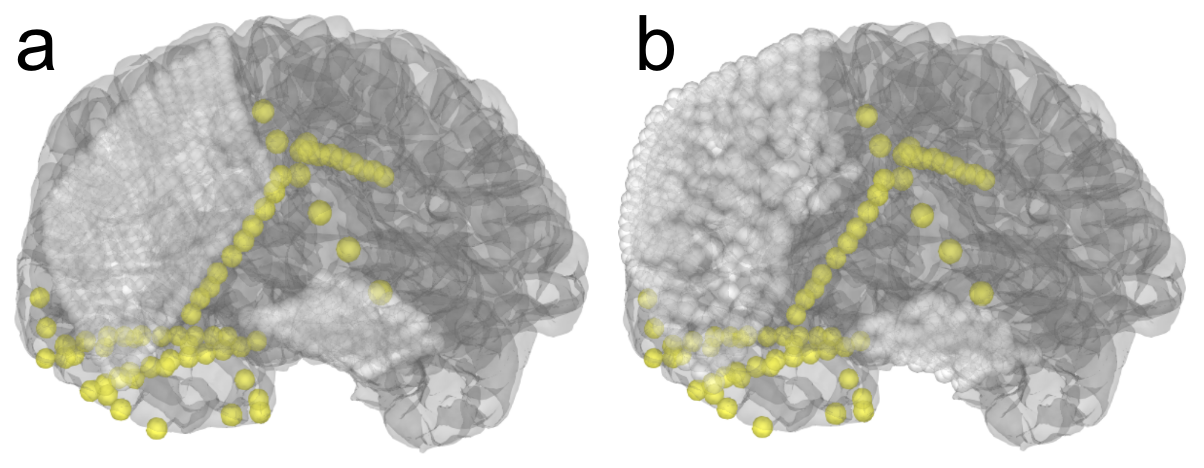
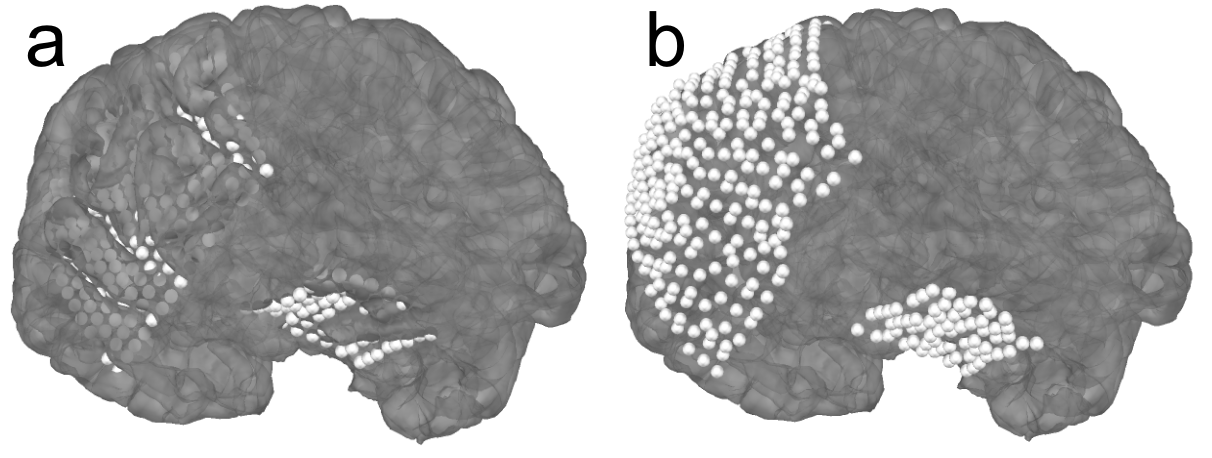
Nicki comments

diff --git a/paper.md b/paper.md
@@ -53,17 +53,17 @@ For brain electrophysiology research using stereoelectroencephalography (sEEG) a
 
 To integrate these electrophysiology and imaging data, first, the CT must be aligned to the MR in order to associate the positions of the electrode contacts with the brain areas that they were recording from. In MNE-Python, these are aligned using a mutual information histogram-matching approach using Dipy [@GaryfallidisEtAl2014:2014] that works without pre-alignment.
 
-![Figure 1. A CT image correctly aligned to the MR image. It is worth noting that the darker areas in the MR are skull whereas the ligher, outermost regions are subcutaneous fat.](figures/Figure_1.png){ width=100% }
+![Figure 1. A CT image correctly aligned to the MR image. The darker areas in the MR are skull whereas the ligher, outermost regions are subcutaneous fat. The CT is shown with a red scale, and red areas shown in the slice are the skull which has high intensity in the CT.](figures/Figure_1.png){ width=100% }
 
-Next, electrode contact locations are selected in merged CT-MR coordinates using a graphical user interface (GUI) implemented in PyQt. In the GUI, users click or scroll though slices to find contacts and then associate each contact location with a channel name in a menu. When a channel is associated with a location, it is rendered in the 3D view as well as marked on the slice plots.
+Next, electrode contact locations are selected in merged CT-MR coordinates using a graphical user interface (GUI) implemented in PyQt. In the GUI, users click or scroll though slices to find the location of contacts. When the user navigates to the location of a channel, the channel name can be selected from a menu of the names from the recording file, and then the user can mark the channel as associated with that location. The channel is then rendered in the 3D view as well as colored on the slice plots.
 
-![Figure 2. A screenshot of the GUI during a sEEG electrode location. For sEEG, the 3D brain view is typically similar to the surgical plans, making it easier to determine which electrode is which than trying to piece together locations and directions from the three 2D slice images.](figures/Figure_2.png){ width=100% }
+![Figure 2. A screenshot of the GUI during a sEEG electrode location. For sEEG, the 3D brain view is typically similar to the surgical plans, making it easier to determine which electrode is which rather than only having 2D slice plots and trying to piece together locations and directions.](figures/Figure_2.png){ width=100% }
 
-![Figure 3. A screenshot of the GUI during an ECoG electrode location. For ECoG, the 3D brain view makes it easier to select each contact in a large grid. Without the 3D view, it is difficult to continue in one row without jumping to another, wrong row when the contacts are out of the plane in two directions. Mixing up rows makes it slow and difficult to correctly mark the contacts.](figures/Figure_3.png){ width=100% }
+![Figure 3. A screenshot of the GUI during an ECoG electrode location. For ECoG, the 3D brain view makes it easier to select each contact in a large grid. Without the 3D view, it is difficult to continue in one row without jumping to another row incorrectly when viewing in 2D. These mistakes make it much slower to identify contacts.](figures/Figure_3.png){ width=100% }
 
 Located electrode contacts in merged CT-MR coordinates for an individual subject can be morphed to a template brain for group analysis. This is done using a symmetric diffeomorphic registration [SDR; @GaryfallidisEtAl2014:2014]. This non-linear mapping tends to be more accurate than a linear transformation such as the Talairach transform [@DaleEtAl1999:1999] as shown in Figure 4.
 
-![Figure 4. a) Example sEEG electrodes in a 3D renderering of individual subject anatomy. b) The electrodes in ``a`` mapped to the Freesurfer ``fsaverage`` brain using the SDR morph. c) The electrodes in ``a`` mapped to to the Freesurfer ``fsaverage`` brain using the Talairach transform. Note that this linear transformation is less accurate than the SDR transform in ``b``.](figures/Figure_4.png){ width=100% }
+![Figure 4. a) Example sEEG electrodes in a 3D renderering of individual subject anatomy. b) The electrodes mapped to the Freesurfer ``fsaverage`` brain using the SDR morph. c) The electrodes mapped to to the Freesurfer ``fsaverage`` brain using the Talairach transform. The linear transformation in ``c`` is less accurate than the SDR transform in ``b``.](figures/Figure_4.png){ width=100% }
 
 For ECoG electrodes, "brain shift", caused by changes in pressure during the craniotomy, can also be accounted for using MNE-Python. This shift causes grid and strip electrodes to be deeper in the post-operative CT than they were in the pre-operative MR. This makes it so that the electrodes are inside the pial surface in the pre-operative MRI. In MNE-Python, this is compensated for by projecting the grid to the leptomenigial surface.
 
